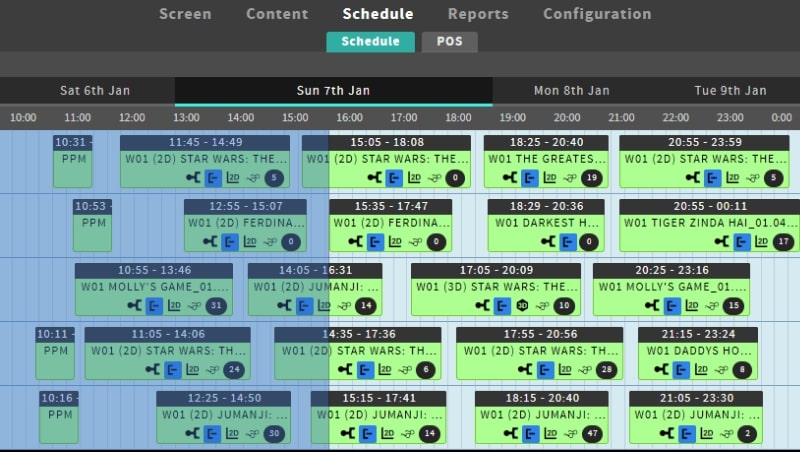
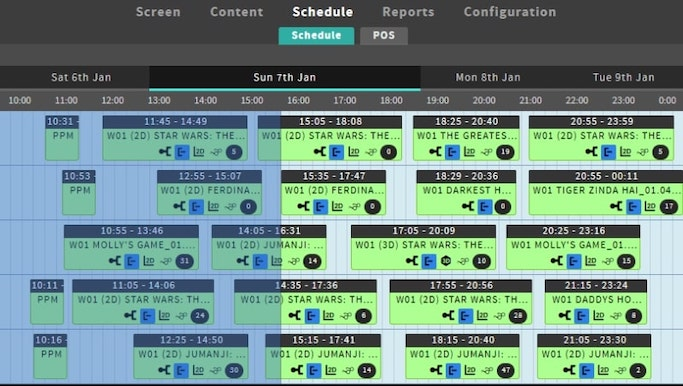
Optimise images

diff --git a/index.html b/index.html
@@ -168,7 +168,7 @@
             </div>
           </div>
           <div class="col-lg-7 col-sm-8 col-md-8 col-xs-10 col-xs-offset-1 col-lg-offset-0 col-sm-offset-0 col-md-offset-0 showcase-carousel scrollpoint sp-effect2">
-            <img src="image/imac.png" class="img-responsive mac-img" alt="" width="750px" height="605px">
+            <img src="image/imac.jpg" class="img-responsive mac-img" alt="" width="750px" height="605px">
             <div id="carousel-reference" class="carousel slide" data-ride="carousel">
               <div class="carousel-inner">
                 <div class="item active"><img src="image/ei.jpg" alt="" width="800px" height="450px"></div>
@@ -179,7 +179,7 @@
             </div>
           </div>
           <div class="col-lg-2 col-sm-4 col-md-4 col-xs-10 col-xs-offset-1 col-lg-offset-0 col-sm-offset-0 col-md-offset-0 hidden-xs scrollpoint sp-effect2 mobile-img">
-            <img src="image/ei_mob.png" class="img-responsive" alt="" width="217px" height="435px">
+            <img src="image/ei_mob.jpg" class="img-responsive" alt="" width="217px" height="435px">
           </div>
         </div>
       </div>
@@ -217,7 +217,7 @@
             </div>
           </div>
           <div class="col-lg-6 col-sm-8 col-md-8 col-md-offset-2 col-sm-offset-2 col-lg-offset-0 showcase-carousel scrollpoint sp-effect2">
-            <img src="image/hc.png" class="img-responsive" alt="" width="600px" height="450px">
+            <img src="image/hc.jpg" class="img-responsive" alt="" width="600px" height="450px">
           </div>
         </div>
       </div>
@@ -254,10 +254,10 @@
             </div>
           </div>
           <div class="col-lg-2 col-sm-4 col-md-4 col-xs-10 col-xs-offset-1 col-lg-offset-0 col-sm-offset-0 col-md-offset-0 hidden-xs scrollpoint sp-effect2 mobile-img">
-            <img src="image/dig_mob.png" class="img-responsive" alt="" width="217px" height="435px">
+            <img src="image/dig_mob.jpg" class="img-responsive" alt="" width="217px" height="435px">
           </div>
           <div class="col-lg-7 col-sm-8 col-md-8 col-xs-10 col-xs-offset-1 col-lg-offset-0 col-sm-offset-0 col-md-offset-0 showcase-carousel scrollpoint sp-effect2">
-            <img src="image/imac.png" class="img-responsive mac-img" alt="" width="750px" height="605px">
+            <img src="image/imac.jpg" class="img-responsive mac-img" alt="" width="750px" height="605px">
             <div id="carousel-reference" class="carousel slide" data-ride="carousel">
               <div class="carousel-inner">
                 <div class="item active"><img src="image/dig1.jpg" alt="" width="800px" height="450px"></div>
@@ -301,7 +301,7 @@
             </div>
           </div>
           <div class="col-lg-7 col-sm-8 col-md-8 col-xs-10 col-xs-offset-1 col-lg-offset-0 col-sm-offset-0 col-md-offset-0 showcase-carousel scrollpoint sp-effect2">
-            <img src="image/imac.png" class="img-responsive mac-img" alt="" width="750px" height="605px">
+            <img src="image/imac.jpg" class="img-responsive mac-img" alt="" width="750px" height="605px">
             <div id="carousel-reference" class="carousel slide" data-ride="carousel">
               <div class="carousel-inner">
                 <div class="item active"><img src="image/vl.jpg" alt="" width="800px" height="450px"></div>
@@ -312,7 +312,7 @@
             </div>
           </div>
           <div class="col-lg-2 col-sm-4 col-md-4 col-xs-10 col-xs-offset-1 col-lg-offset-0 col-sm-offset-0 col-md-offset-0 hidden-xs scrollpoint sp-effect2 mobile-img">
-            <img src="image/vl_mob.png" class="img-responsive" alt="" width="217px" height="435px">
+            <img src="image/vl_mob.jpg" class="img-responsive" alt="" width="217px" height="435px">
           </div>
         </div>
       </div>      
@@ -357,7 +357,7 @@
             </div>
           </div>
           <div class="col-lg-8 col-lg-offset-1 col-sm-8 col-md-8 col-md-offset-2 col-sm-offset-2 col-xs-10 col-xs-offset-1 showcase-carousel scrollpoint sp-effect2">
-            <img src="image/imac.png" class="img-responsive mac-img" alt="" width="750px" height="605px">
+            <img src="image/imac.jpg" class="img-responsive mac-img" alt="" width="750px" height="605px">
             <div id="carousel-reference" class="carousel slide carousel-big" data-ride="carousel">
               <div class="carousel-inner">
                 <div class="item active"><img src="image/tms.jpg" alt="" width="800px" height="450px"></div>
@@ -394,7 +394,7 @@
             </div>
           </div>
           <div class="col-lg-8 col-lg-offset-1 col-sm-8 col-md-8 col-md-offset-2 col-sm-offset-2 col-xs-10 col-xs-offset-1 showcase-carousel scrollpoint sp-effect2">
-            <img src="image/imac.png" class="img-responsive mac-img" alt="" width="750px" height="605px">
+            <img src="image/imac.jpg" class="img-responsive mac-img" alt="" width="750px" height="605px">
             <div id="carousel-reference" class="carousel slide carousel-big" data-ride="carousel">
               <div class="carousel-inner">
                 <div class="item active"><img src="image/dpd.jpg" alt="" width="800px" height="450px"></div>
@@ -431,7 +431,7 @@
             </div>
           </div>
           <div class="col-lg-7 col-sm-8 col-md-8 col-xs-10 col-xs-offset-1 col-lg-offset-0 col-sm-offset-0 col-md-offset-0 showcase-carousel scrollpoint sp-effect2">
-            <img src="image/imac.png" class="img-responsive mac-img" alt="" width="750px" height="605px">
+            <img src="image/imac.jpg" class="img-responsive mac-img" alt="" width="750px" height="605px">
             <div id="carousel-reference" class="carousel slide" data-ride="carousel">
               <div class="carousel-inner">
                 <div class="item active"><img src="image/elt.jpg" alt="" width="800px" height="450px"></div>
@@ -442,7 +442,7 @@
             </div>
           </div>
           <div class="col-lg-2 col-sm-4 col-md-4 col-xs-10 col-xs-offset-1 col-lg-offset-0 col-sm-offset-0 col-md-offset-0 hidden-xs scrollpoint sp-effect2 mobile-img">
-            <img src="image/elt_mob.png" class="img-responsive" alt="" width="217px" height="435px">
+            <img src="image/elt_mob.jpg" class="img-responsive" alt="" width="217px" height="435px">
           </div>
         </div>
       </div>
@@ -473,10 +473,10 @@
             </div>
           </div>
           <div class="col-lg-2 col-sm-4 col-md-4 col-xs-10 col-xs-offset-1 col-lg-offset-0 col-sm-offset-0 col-md-offset-0 hidden-xs scrollpoint sp-effect2 mobile-img">
-            <img src="image/repak_mob.png" class="img-responsive" alt="" width="217px" height="435px">
+            <img src="image/repak_mob.jpg" class="img-responsive" alt="" width="217px" height="435px">
           </div>
           <div class="col-lg-7 col-sm-8 col-md-8 col-xs-10 col-xs-offset-1 col-lg-offset-0 col-sm-offset-0 col-md-offset-0 showcase-carousel scrollpoint sp-effect2">
-            <img src="image/imac.png" class="img-responsive mac-img" alt="" width="750px" height="605px">
+            <img src="image/imac.jpg" class="img-responsive mac-img" alt="" width="750px" height="605px">
             <div id="carousel-reference" class="carousel slide" data-ride="carousel">
 
               <div class="carousel-inner">
@@ -526,7 +526,7 @@
             </div>
           </div>
           <div class="col-lg-7 col-sm-8 col-md-8 col-xs-10 col-xs-offset-1 col-lg-offset-0 col-sm-offset-0 col-md-offset-0 showcase-carousel scrollpoint sp-effect2">
-            <img src="image/imac.png" class="img-responsive mac-img" alt="" width="750px" height="605px">
+            <img src="image/imac.jpg" class="img-responsive mac-img" alt="" width="750px" height="605px">
             <div id="carousel-reference" class="carousel slide" data-ride="carousel">
               <div class="carousel-inner">
                 <div class="item active"><img src="image/slice1.jpg" alt="" width="800px" height="450px"></div>
@@ -536,7 +536,7 @@
             </div>
           </div>
           <div class="col-lg-2 col-sm-4 col-md-4 col-xs-10 col-xs-offset-1 col-lg-offset-0 col-sm-offset-0 col-md-offset-0 hidden-xs scrollpoint sp-effect2 mobile-img">
-            <img src="image/slice_mob.png" class="img-responsive" alt="" width="217px" height="435px">
+            <img src="image/slice_mob.jpg" class="img-responsive" alt="" width="217px" height="435px">
           </div>
         </div>
       </div>
@@ -564,7 +564,7 @@
             </div>
           </div>
           <div class="col-lg-6 col-sm-8 col-md-8 col-md-offset-2 col-sm-offset-2 col-lg-offset-0 showcase-carousel scrollpoint sp-effect2">
-            <img src="image/valc.png" class="img-responsive" alt="" width="600px" height="450px">
+            <img src="image/valc.jpg" class="img-responsive" alt="" width="600px" height="450px">
           </div>
         </div>
       </div>
@@ -590,10 +590,10 @@
             </div>
           </div>
           <div class="col-lg-2 col-sm-4 col-md-4 col-xs-10 col-xs-offset-1 col-sm-offset-0 col-lg-offset-0 col-md-offset-0 hidden-xs scrollpoint sp-effect2 mobile-img">
-            <img src="image/spud_mob.png" class="img-responsive" alt="" width="217px" height="435px">
+            <img src="image/spud_mob.jpg" class="img-responsive" alt="" width="217px" height="435px">
           </div>
           <div class="col-lg-7 col-sm-8 col-md-8 col-xs-10 col-xs-offset-1 col-sm-offset-0 col-lg-offset-0 col-md-offset-0 showcase-carousel scrollpoint sp-effect2">
-            <img src="image/imac.png" class="img-responsive mac-img" alt="" width="750px" height="605px">
+            <img src="image/imac.jpg" class="img-responsive mac-img" alt="" width="750px" height="605px">
             <div id="carousel-reference" class="carousel slide" data-ride="carousel">
               <div class="carousel-inner">
                 <div class="item active"><img src="image/spud1.jpg" alt="" width="800px" height="450px"></div>
